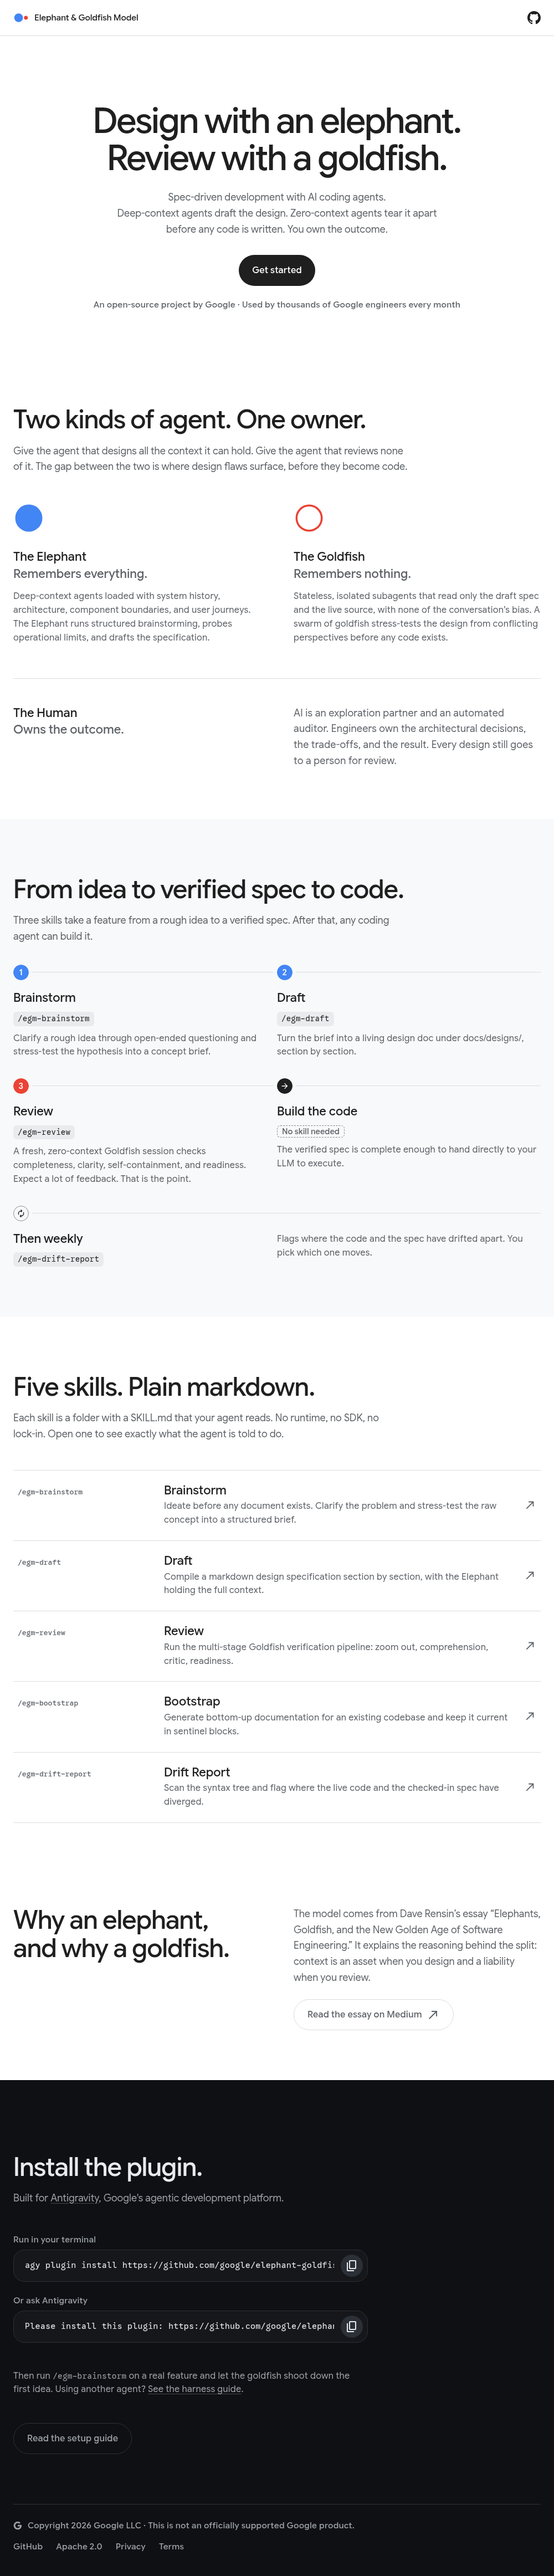
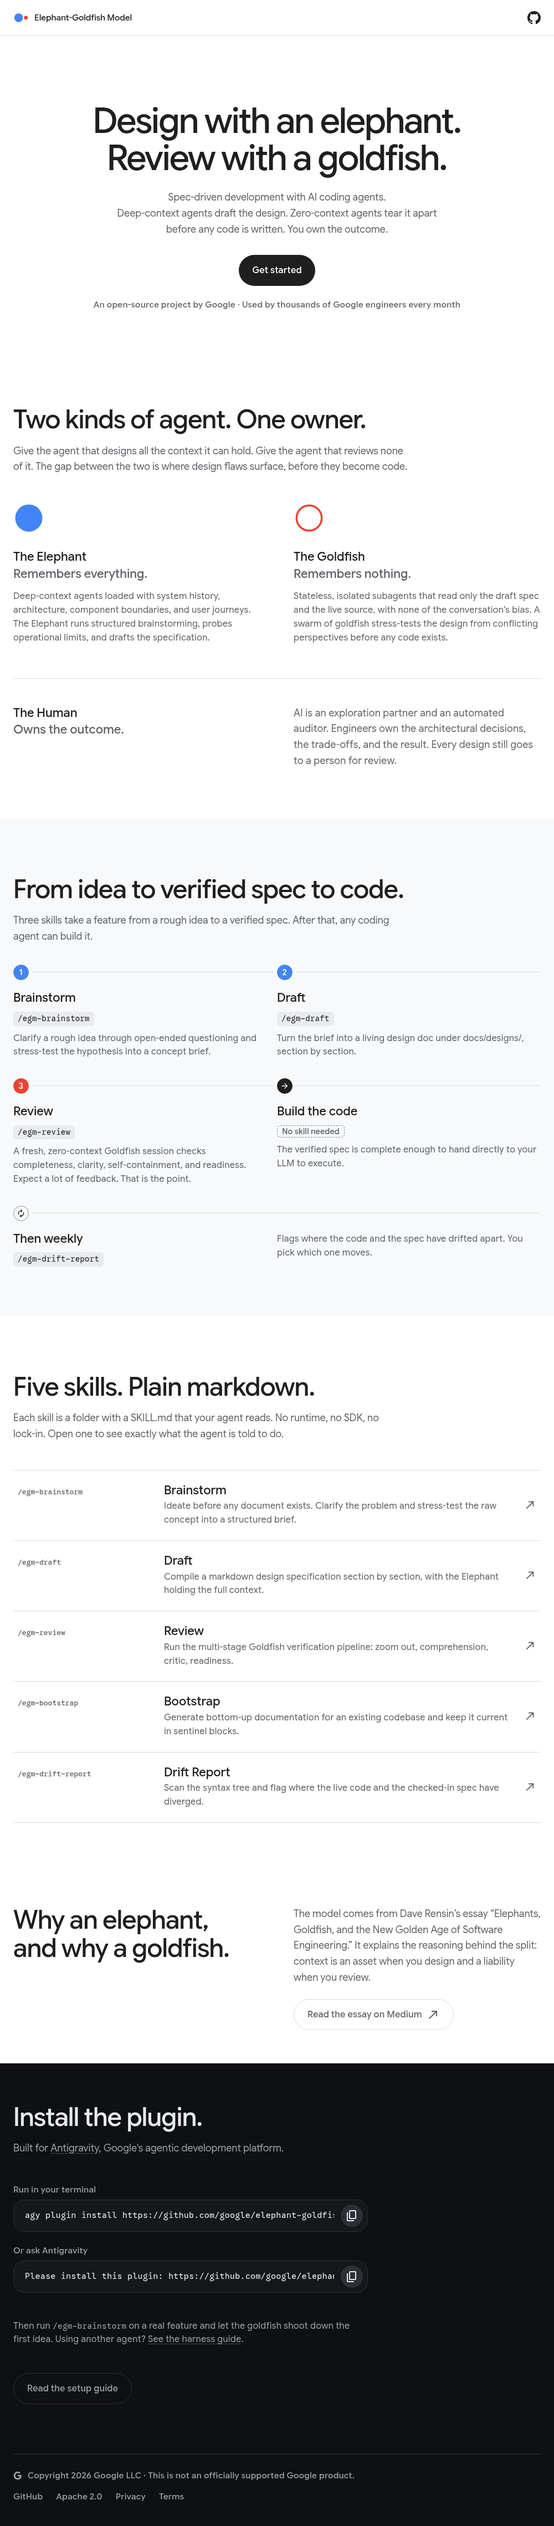
site: balance spacing around Why; rename to Elephant-Goldfish Model
Essay bottom and Install top padding use --section-y-tight, so the gap
below the Why section matches the gap above it (172/156px at 1200px,
112/108px at 375px), identical in light and dark schemes.
Site title, og:site_name, nav brand, and site README now say
Elephant-Goldfish Model. Screenshots regenerated.

diff --git a/site/README.md b/site/README.md
@@ -1,6 +1,6 @@
 # egm.dev
 
-Landing site for the Elephant & Goldfish Model, served at https://egm.dev from
+Landing site for the Elephant-Goldfish Model, served at https://egm.dev from
 GitHub Pages.
 
 | Light | Dark |
